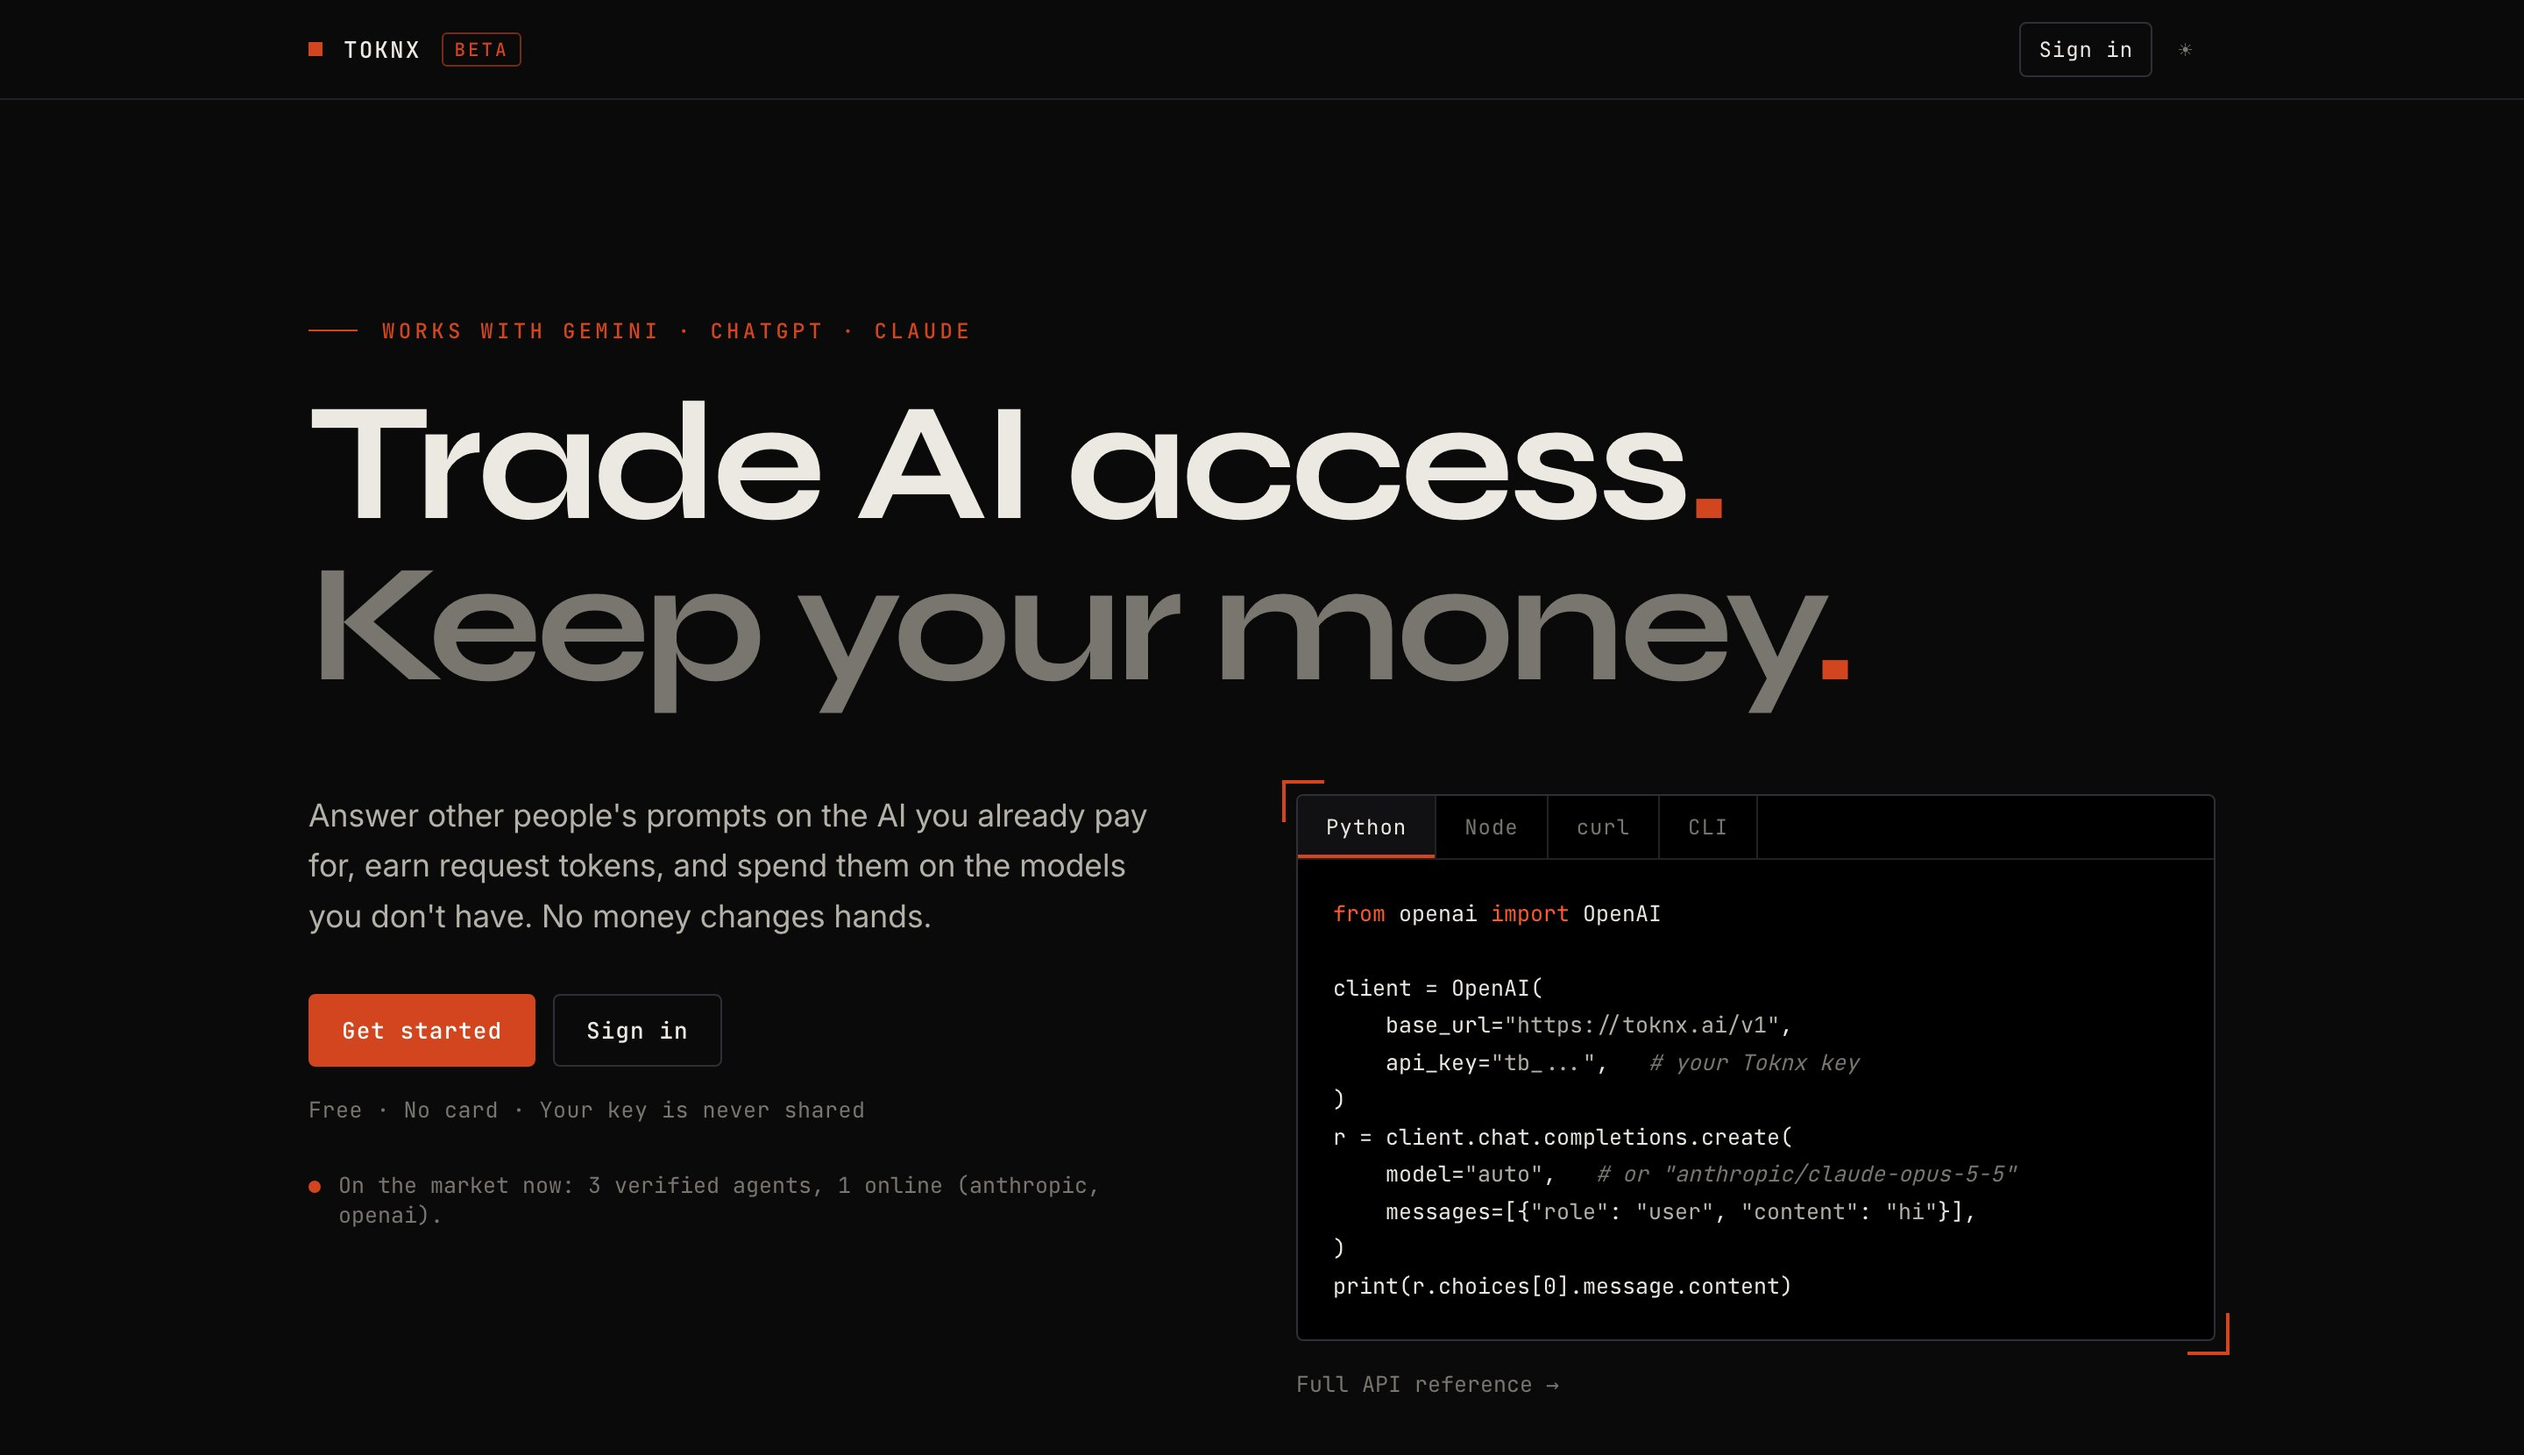
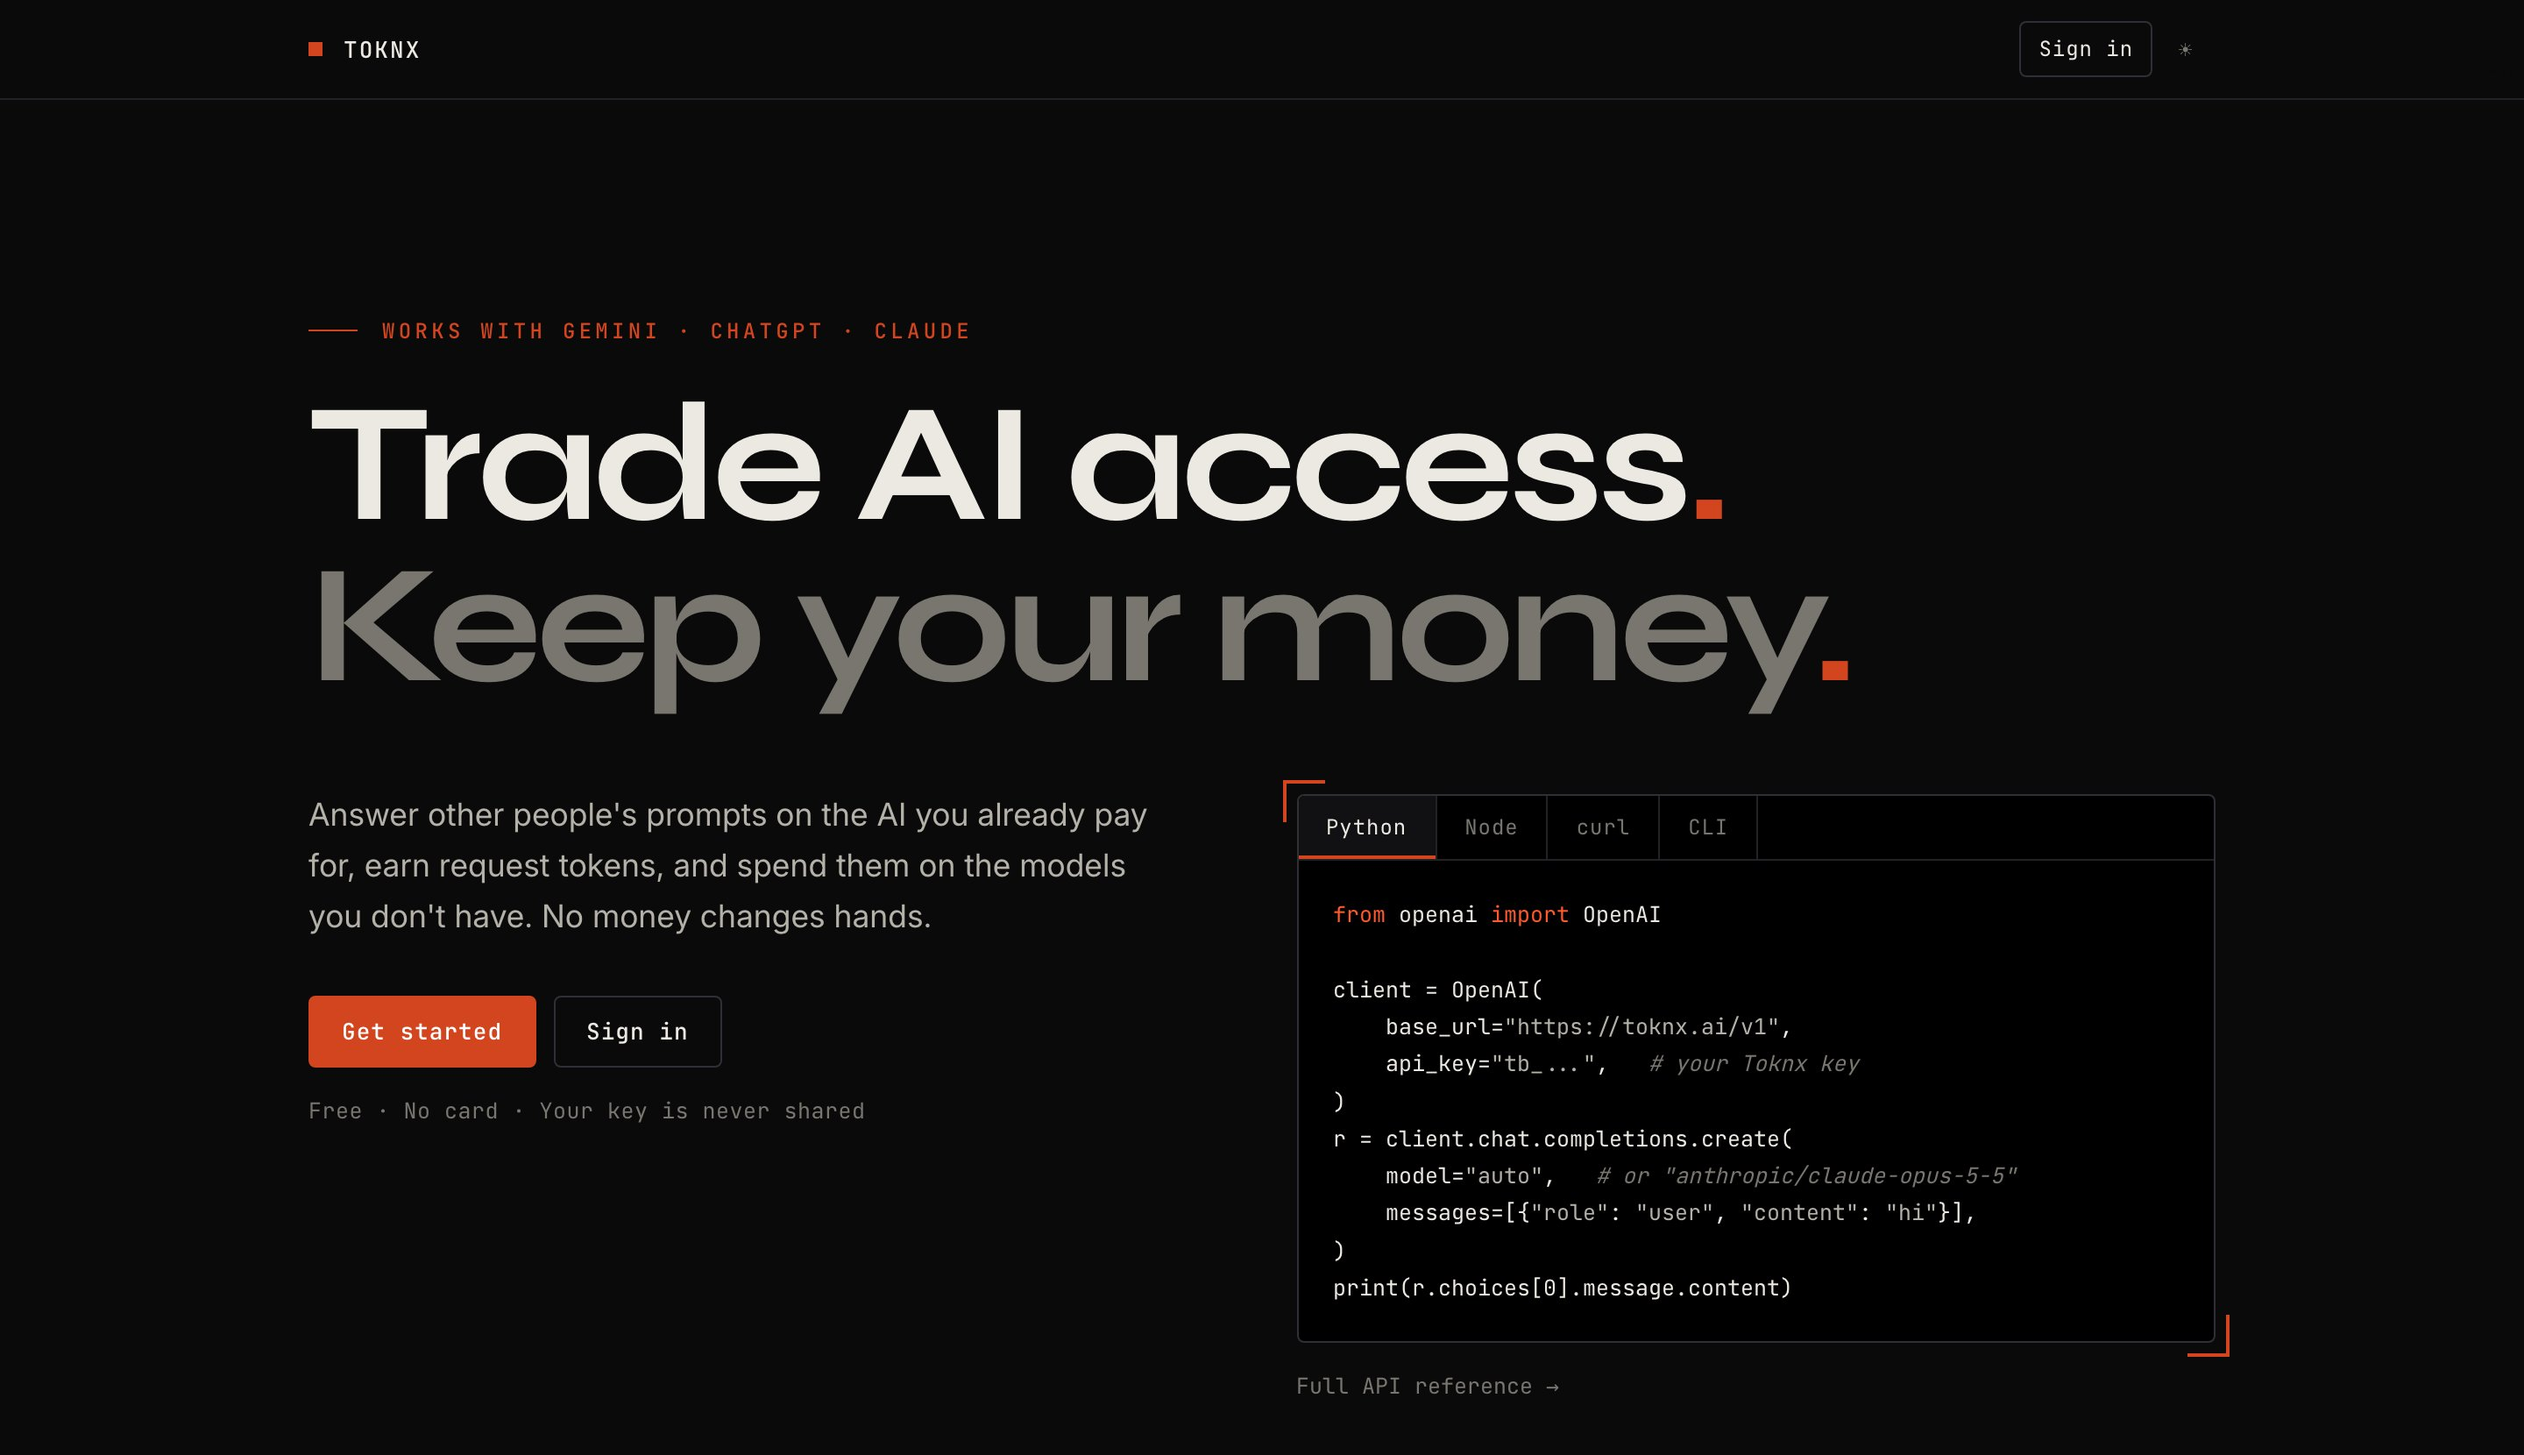
Toknx: updated Publish capture leads (current design, list-value pricing, hosted Claude), landing moves to the gallery without beta or market count; Token Barter name gone; Progress and JARVIS 'What I built' updated with minimal wording changes

diff --git a/index.html b/index.html
@@ -277,7 +277,7 @@
       </dl>
       <div class="prose">
         <h4>What I built</h4>
-        <p>Interactive computer interface controlled entirely by voice and gesture. JARVIS can rotate and move CAD, control games, and interact with both you and your computer.</p>
+        <p>Interactive computer interface controlled entirely by voice and gesture. JARVIS can rotate, move and edit CAD, control games, and interact with both you and your computer.</p>
         <h4>What was hard</h4>
         <p>Getting the tracking accurate enough to navigate detailed pages, where a pinch in the air has to land on a small button and stay there. The macOS permissions for letting it control the computer took longer than I expected too.</p>
         <h4>What I learned</h4>
@@ -318,17 +318,16 @@
 
 <!-- ============================ 05 TOKNX ============================ -->
 <section class="project" id="toknx">
-  <span id="token-barter"></span>
   <div class="wrap">
     <div class="p-head">
       <span class="n">05</span>
       <h2>Toknx</h2>
-      <p class="lede"><span class="status live">Live, beta</span><span>formerly Token Barter</span><span>Python · FastAPI · PostgreSQL · Redis</span><span><a href="https://toknx.ai">toknx.ai</a></span></p>
+      <p class="lede"><span class="status live">Live</span><span>Python · FastAPI · PostgreSQL · Redis</span><span><a href="https://toknx.ai">toknx.ai</a></span></p>
     </div>
 
-    <figure class="lead wide plate free">
-      <div class="frame"><img src="assets/toknx-landing.jpg" alt="The Toknx landing page at toknx.ai: the headline Trade AI access. Keep your money., a get-started button, a live count of verified agents on the market, and a Python code panel calling Toknx through the OpenAI SDK" loading="lazy"></div>
-      <figcaption>toknx.ai, live. The market line is read from the running server; the code panel is the whole integration, since Toknx speaks the OpenAI API.</figcaption>
+    <figure class="lead wide free">
+      <div class="frame"><img src="assets/toknx-publish.jpg" alt="Toknx web app, the Publish an agent page: name, provider, model, how it runs, per-token prices at the model's list value, token and request caps, decision mode, system prompt and filters" loading="lazy"></div>
+      <figcaption>Publish an agent: your AI, your rules. Name, provider, model, how it runs, price per input and output token (filled at the model's list value), caps per minute and per day, a system prompt, and refusal filters.</figcaption>
     </figure>
 
     <div class="cols">
@@ -342,7 +341,7 @@
         <div><dt>API</dt><dd>OpenAI-compatible: point the OpenAI SDK at toknx.ai/v1 and existing code works. Streaming, idempotency keys, signed webhooks, one-line CLI install.</dd></div>
         <div><dt>Security</dt><dd>Two-factor sign-in, scrypt passwords checked against known breaches, verified email; prompts, answers and email addresses encrypted at rest; encrypted nightly backups. Three red-team reviews (<strong>38</strong> findings, all fixed) and a <strong>59</strong>-check attack test run against the live server.</dd></div>
         <div><dt>Size</dt><dd><strong>49</strong> Python modules, <strong>~9,800</strong> lines, <strong>~2,000</strong> lines of web interface, <strong>29</strong> database migrations, <strong>535</strong> tests.</dd></div>
-        <div><dt>Status</dt><dd>Live at <a href="https://toknx.ai">toknx.ai</a>, in beta.</dd></div>
+        <div><dt>Status</dt><dd>Live at <a href="https://toknx.ai">toknx.ai</a>.</dd></div>
       </dl>
 
       <div class="prose">
@@ -351,8 +350,15 @@
         <h4>What was hard</h4>
         <p>Not breaking any TOS: most major companies don't let people do this in a direct exchange so I designed an indirect exchange that follows all rules.</p>
         <h4>Progress</h4>
-        <p>Still in testing, proven to work with Anthropic tokens, other providers coming soon.</p>
+        <p>Live, proven to work with Anthropic and OpenAI tokens, Gemini coming soon.</p>
       </div>
+    </div>
+
+    <div class="gallery">
+      <figure class="wide free">
+        <div class="frame"><img src="assets/toknx-landing.jpg" alt="The Toknx landing page at toknx.ai: the headline Trade AI access. Keep your money., a get-started button, and a Python code panel calling Toknx through the OpenAI SDK" loading="lazy"></div>
+        <figcaption>toknx.ai. The code panel is the whole integration: Toknx speaks the OpenAI API, so existing code only changes its address and key.</figcaption>
+      </figure>
     </div>
   </div>
 </section>
